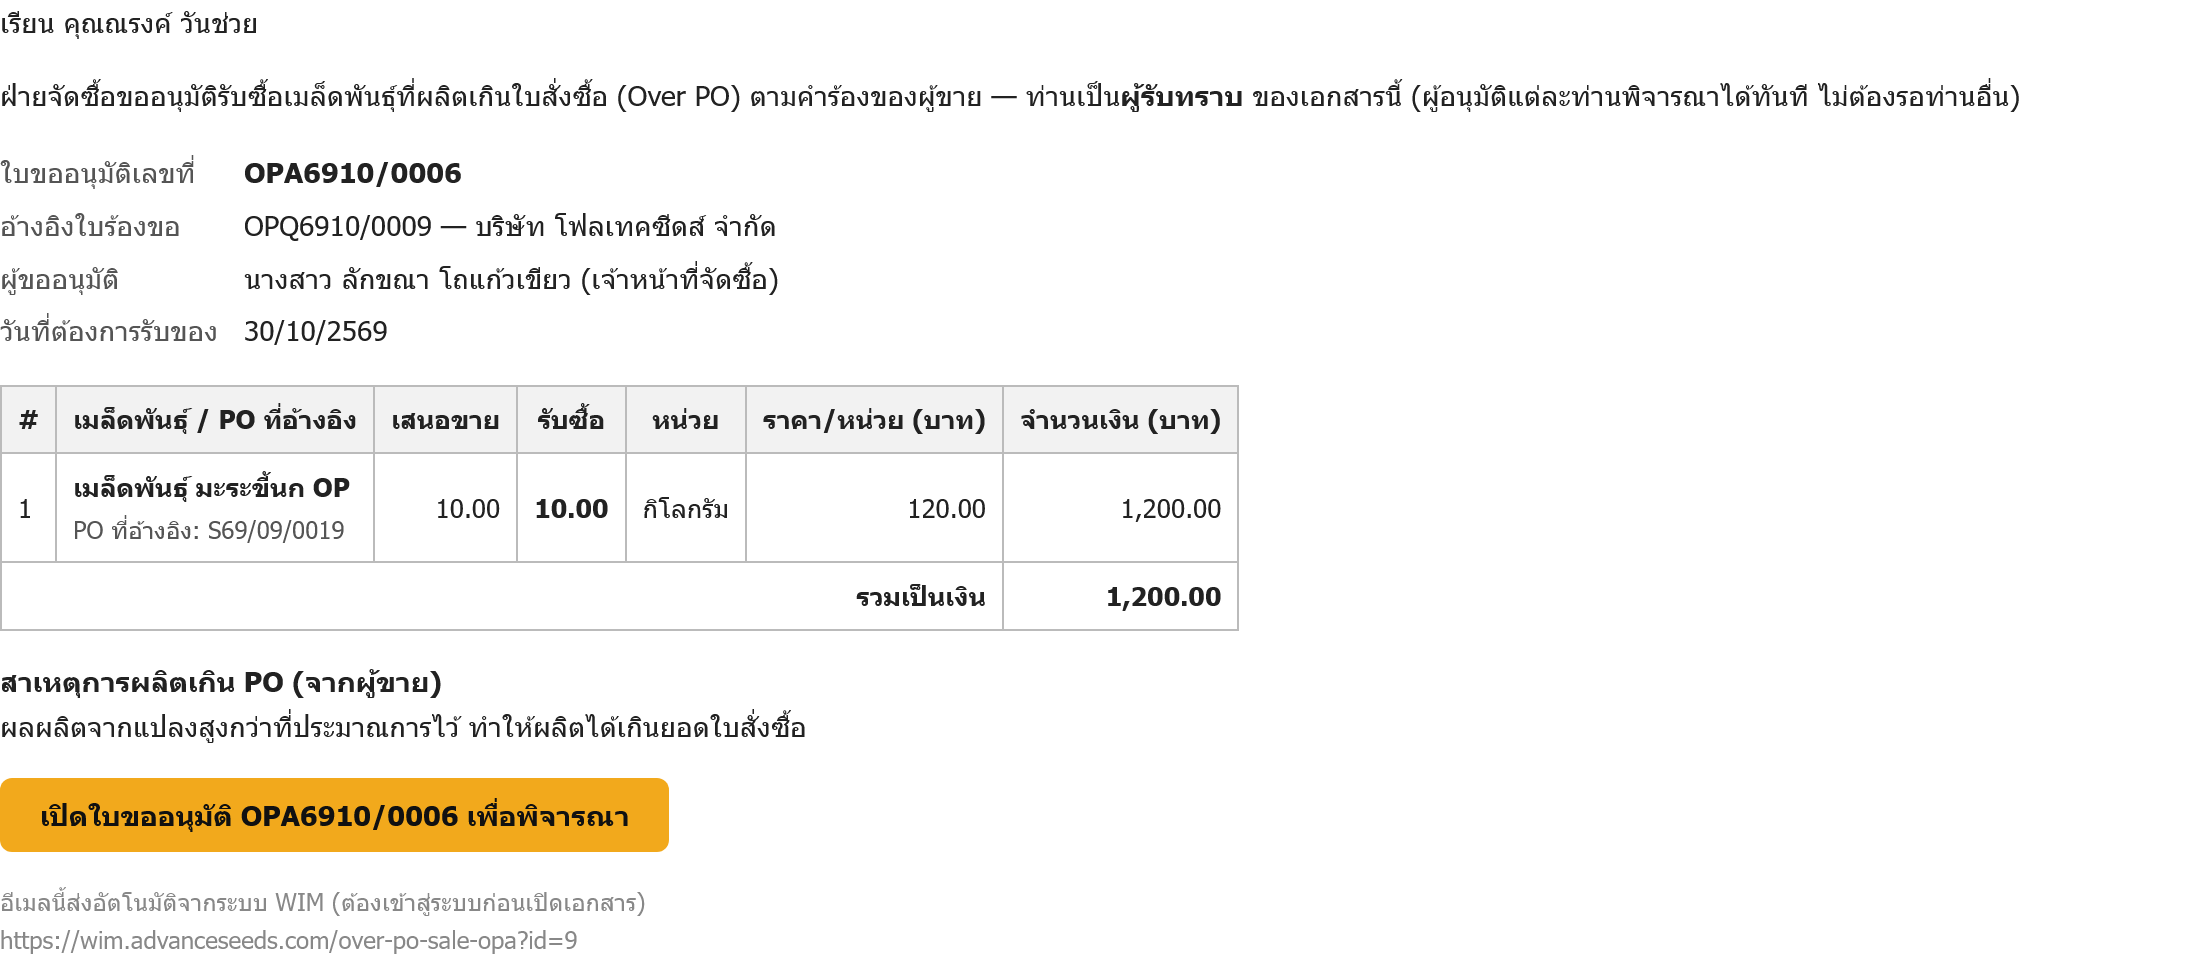
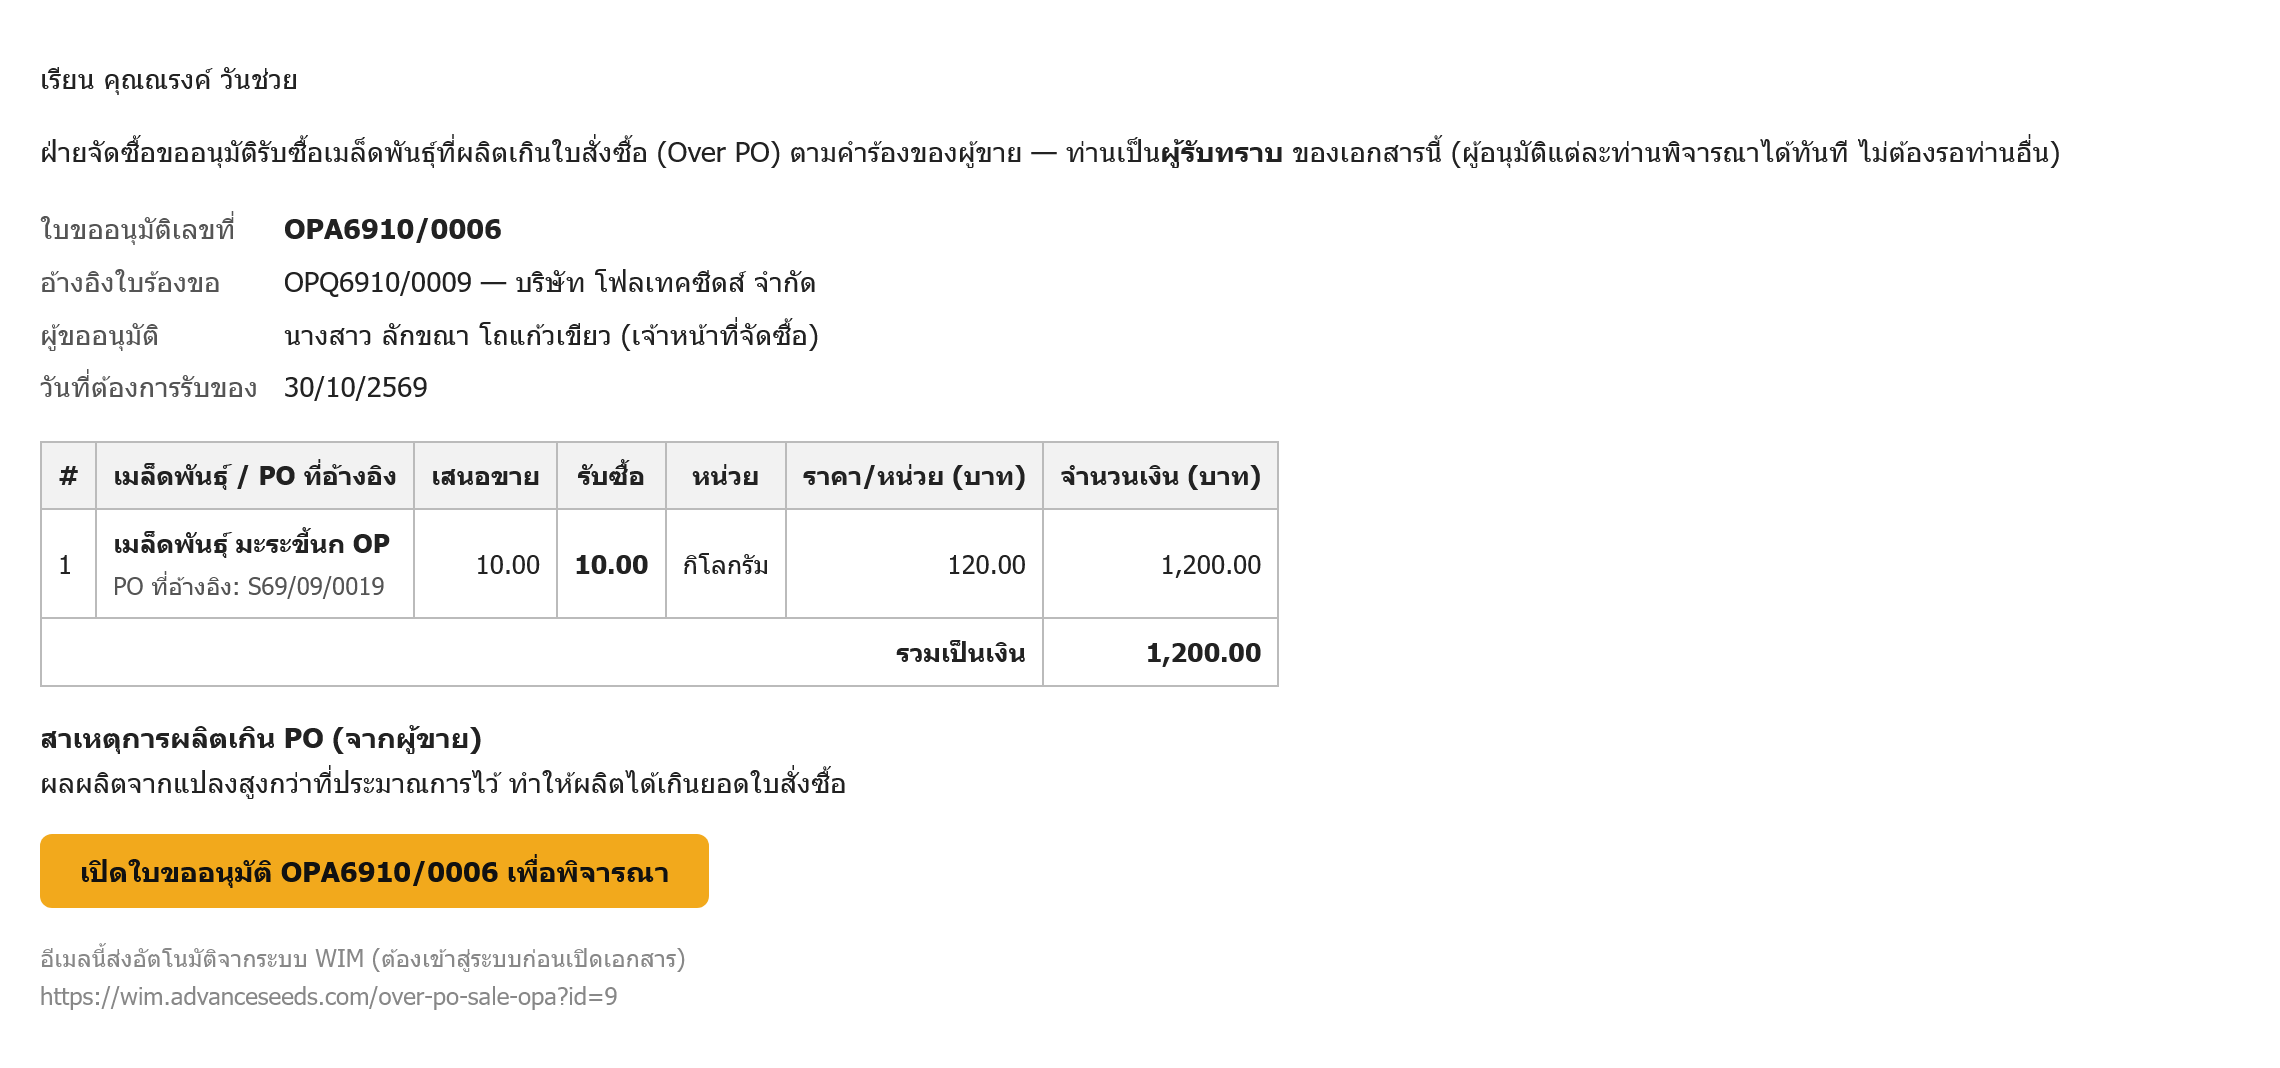
Over PO manual: approver mail image with side margins

diff --git a/tools/manual-shots/mk-mail.js b/tools/manual-shots/mk-mail.js
@@ -35,7 +35,7 @@ fs.writeFileSync(htmlFile, '<!doctype html><meta charset="utf-8"><body style="ma
   await pg.goto('file:///' + htmlFile.split(path.sep).join('/')); await pg.waitForTimeout(500);
   // ซ่อนบรรทัดข้อความส่งอัตโนมัติ + ลิงก์ URL ท้ายอีเมล
   await pg.evaluate(() => { document.querySelectorAll('a').forEach(a => { if (/^https?:/.test(a.textContent.trim())) a.parentElement.style.display = 'none'; }); });
-  await (await pg.$('body > div')).screenshot({ path: 'D:/WimOnWeb/public/images/manual/over-po-sale/mail-approver.png' });
+  await (await pg.$('body')).screenshot({ path: 'D:/WimOnWeb/public/images/manual/over-po-sale/mail-approver.png' });
   console.log('subject:', m.subject);
   await br.close(); fs.unlinkSync(htmlFile);
 })();
